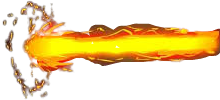
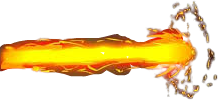
Add files via upload

diff --git a/js/Game.js b/js/Game.js
@@ -1,5 +1,7 @@
 class Game {
-  constructor() { }
+  constructor() {
+
+  }
 
   getState() {
     var gameStateRef = database.ref("gameState");
@@ -16,6 +18,7 @@ class Game {
 
   async start() {
     if (gameState === 0) {
+      background(bgImg);
       player = new Player();
       var playerCountRef = await database.ref("playerCount").once("value");
       if (playerCountRef.exists()) {
@@ -28,6 +31,7 @@ class Game {
 
     player1 = createSprite(100, 200);
     player1.addImage(player1Img);
+    player1.scale = 1.5;
     player2 = createSprite(300, 200);
     player2.addImage(player2Img);
 
@@ -43,8 +47,16 @@ class Game {
     Player.getPlayerInfo();
     player.getPlayerAtEnd();
     if (allPlayers !== undefined) {
-      background(rgb(198, 135, 103));
-
+      // background(rgb(198, 135, 103));
+      background("white");
+      push();
+      noStroke();
+      fill("#35C7F8");
+      rect(0, -height * 4, width, height * 4.5);
+      fill("#3C961A");
+      rect(0, height * 0.5, width, height * 4.5);
+      pop();
+      image(bgImg, 0,0, width, height);
       var index = 0;
 
       //x and y position of the playerArray
@@ -66,16 +78,17 @@ class Game {
         playerArray[index - 1].x = x;
         playerArray[index - 1].y = y;
 
-        stroke(10);
-        fill("red");
+        stroke(50);
+        fill("white");
         text(allPlayers[plr].health, x, y - 200);
         text(allPlayers[plr].score, x, y - 250);
         if (index === player.index) {
           stroke(10);
           fill("red");
-          ellipse(x, y, 100, 100);
-
+          rect(x, y, 5, 5);
+         
           player.health = allPlayers[plr].health;
+          console.log(player.health);
           camera.position.x = displayWidth / 2;
           camera.position.y = playerArray[index - 1].y;
           //destroy weapon if out of screen
@@ -137,18 +150,22 @@ class Game {
         ) {
           //console.log("create weapon");
           if (allPlayers[plr].chosen == "Fire Beam") {
-            weapons[index - 1] = new Weapon(x, y, 30, firebeamImg, 10);
+            weapons[index - 1] = new Weapon(x, y, 60, firebeamImg, 10, 1);
+
+
+
             //weapon1_created = true;
             //player.state = "attack";
           }
 
           if (allPlayers[plr].chosen == "Fire Blast") {
-            weapons[index - 1] = new Weapon(x, y, 60, fireblastImg, 10);
+            weapons[index - 1] = new Weapon(x, y, 80, fireblastImg, 10, 1);
             //weapon1_created = true;
             //player.state = "attack";
           }
           if (allPlayers[plr].chosen == "Incinerate") {
-            weapons[index - 1] = new Weapon(x, y, 60, incinerateImg, 10);
+            weapons[index - 1] = new Weapon(x, y, 90, incinerateImg, 10, 0.5);
+            weapons[index - 1].scale = 0.05;
             //player.state = "attack";
 
             //weapon1_created = true;
@@ -157,20 +174,20 @@ class Game {
           //player.weapon = weapon1;
 
           if (allPlayers[plr].chosen == "Fire Spin") {
-            weapons[index - 1] = new Weapon(x, y, 50, firespinImg, -10);
+            weapons[index - 1] = new Weapon(x, y, 90, firespinImg, -10, 1);
             //player.state = "attack";
 
             // weapon2_created = true;
           }
           if (allPlayers[plr].chosen == "Flame Thrower") {
-            weapons[index - 1] = new Weapon(x, y, 50, flamethrowerImg, -10);
+            weapons[index - 1] = new Weapon(x, y, 80, flamethrowerImg, -10, 1);
             //player.state = "attack";
 
             //weapon2_created = true;
           }
 
           if (allPlayers[plr].chosen == "Slash") {
-            weapons[index - 1] = new Weapon(x, y, 50, slashImg, -10);
+            weapons[index - 1] = new Weapon(x, y, 60, slashImg, -10, 1);
             //player.state = "attack";
 
             // weapon2_created = true;
@@ -219,7 +236,7 @@ class Game {
       // gameState = 2;
       this.update(2);
       Player.updatePlayerAtEnd(player.index);
-      console.log("lossing Player" + player.index);
+      console.log("lossing Player" + player.index)
     }
 
     drawSprites();
@@ -227,7 +244,7 @@ class Game {
 
   end() {
     console.log("Game Ended");
-  
+
     if (playerAtEnd == 1) {
       var bk = "bg_image/bg2.jpg";
 

diff --git a/js/Weapon.js b/js/Weapon.js
@@ -1,5 +1,5 @@
 class Weapon {
-  constructor(x, y, damage, image, v) {
+  constructor(x, y, damage, image, v, scale) {
     this.damage = damage;
     this.image = image;
     this.x = x;
@@ -8,14 +8,16 @@ class Weapon {
     this.body = createSprite(x, y, 20, 20);
     //this.body.velocityX = v;
     this.body.addImage(image);
+    this.body.scale = scale ;
   }
-  changeWeapon(x, y, damage, image, v) {
-    this.damage = damage;
-    this.image = image;
-    this.x = x;
-    this.y = y;
-    this.velocityX = v;
-    //this.body.velocityX = v;
-    this.body.addImage(image);
-  }
+  // changeWeapon(x, y, damage, image, v) {
+  //   this.damage = damage;
+  //   this.image = image;
+  //   this.x = x;
+  //   this.y = y;
+  //   this.velocityX = v;
+  //   //this.body.velocityX = v;
+  //   this.body.addImage(image);
+   
+  // }
 }

diff --git a/js/Form.js b/js/Form.js
@@ -15,7 +15,10 @@ class Form {
 
   display() {
     this.title.html("The Pokemon Game");
-    this.title.position(displayWidth / 2 - 100, 0);
+    this.title.position(displayWidth / 2 - 200, 0);
+    this.title.style("font-size","50px");
+    this.title.style("color","balck");
+  
 
     this.input.position(displayWidth / 2 - 40, displayHeight / 2 - 80);
     this.button.position(displayWidth / 2 + 30, displayHeight / 2);

diff --git a/sketch.js b/sketch.js
@@ -69,10 +69,12 @@ function setup() {
   game = new Game();
   game.getState();
   game.start();
+  //incinerate.scale = 0.5;
+  
 }
 
 function draw() {
-  if (playerCount === 2) {
+  if (playerCount === 2 && gameState == 0) {
     game.update(1);
   }
   if (gameState === 1) {

diff --git a/js/Player.js b/js/Player.js
@@ -1,7 +1,7 @@
 class Player {
   constructor() {
     this.index = null;
-    this.y = 0;
+    this.y = height/2;
     this.health = 350;
     this.name = null;
     this.weaponActive = false;
